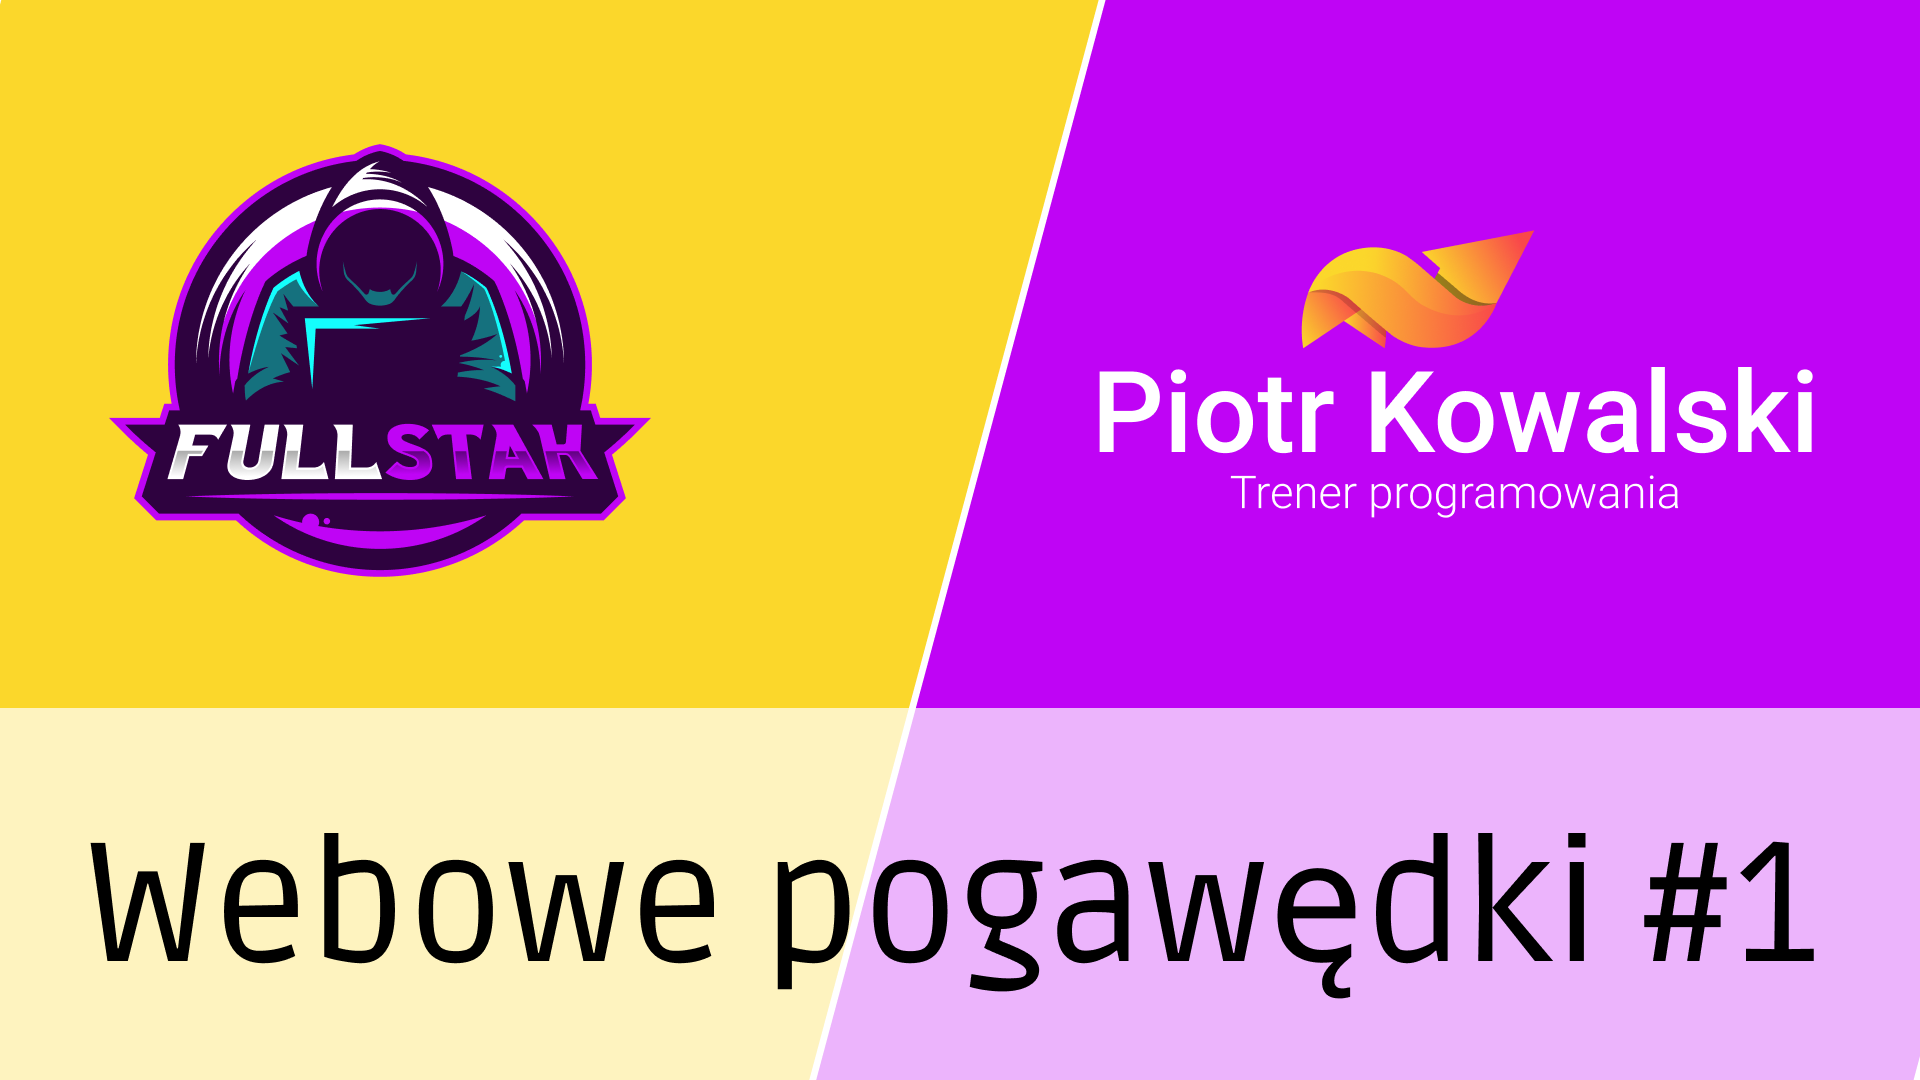
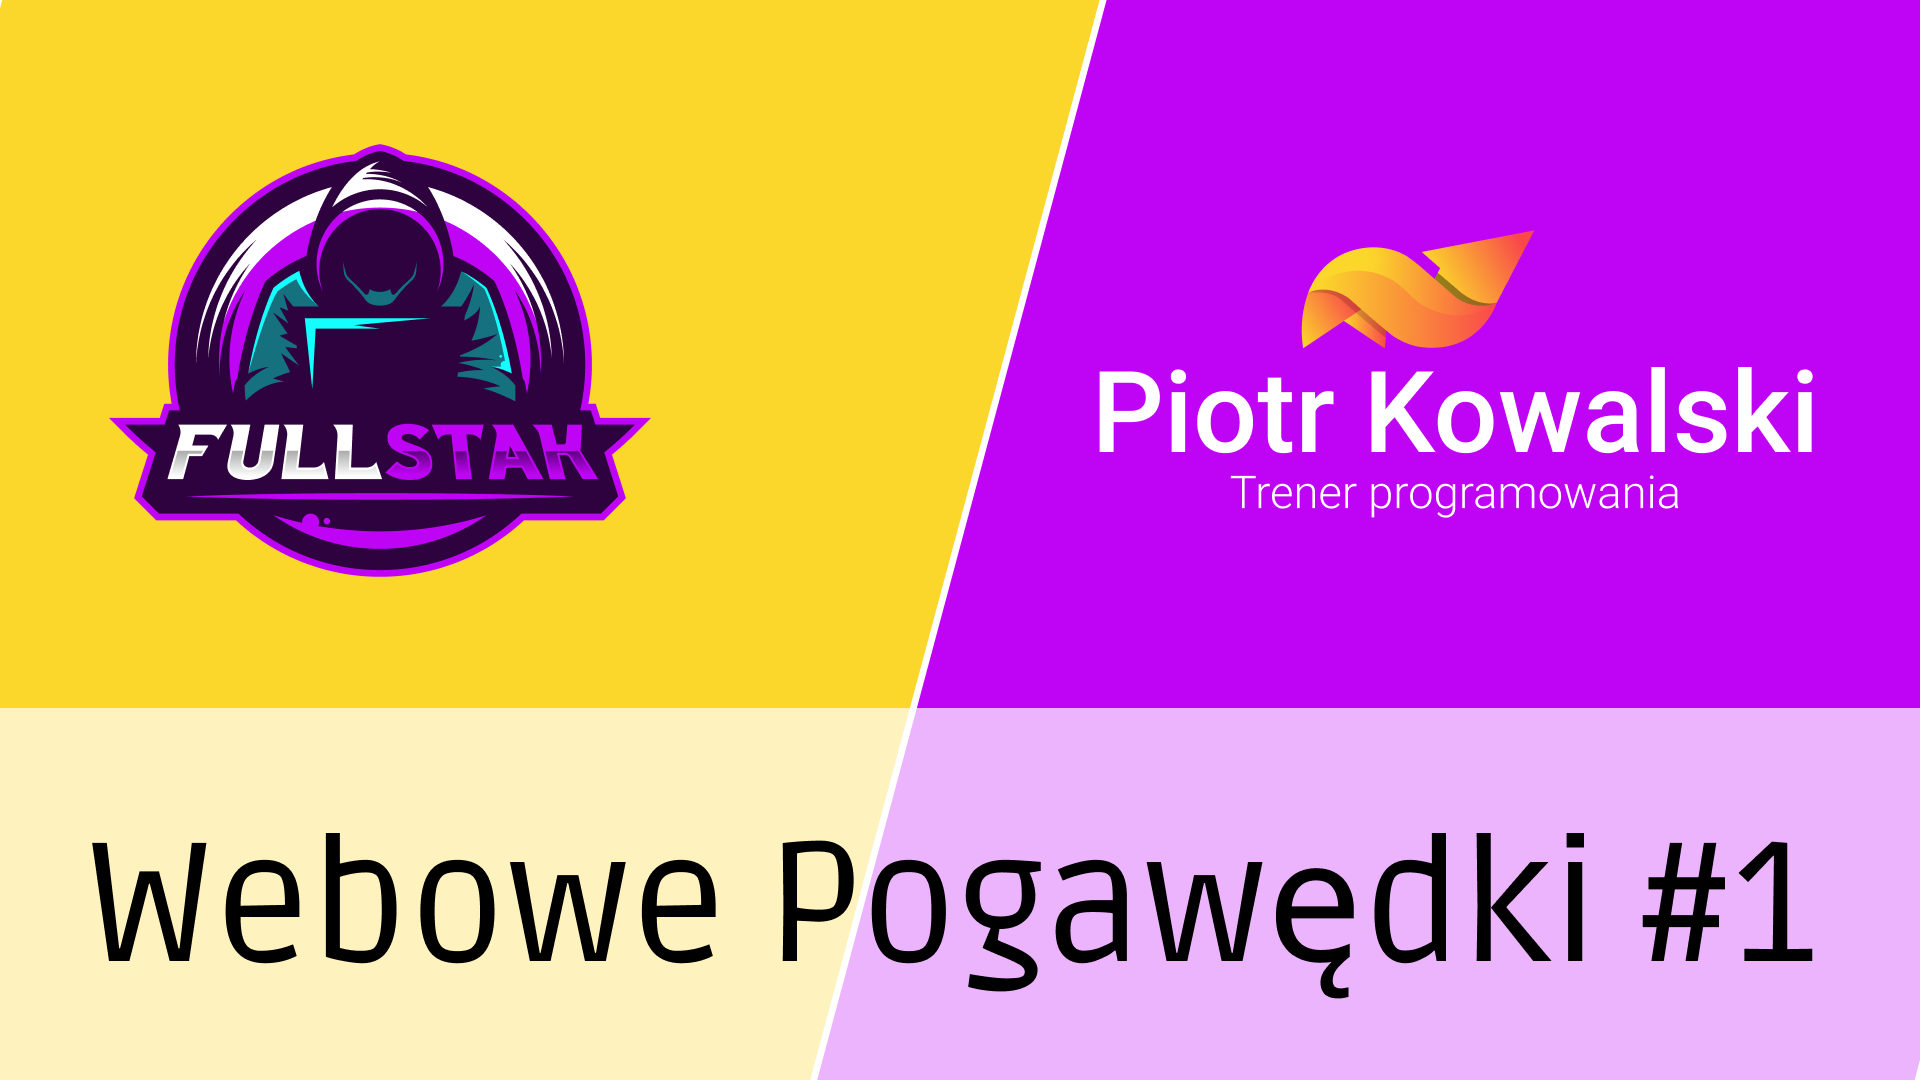
Update project name

diff --git a/README.md b/README.md
@@ -1,8 +1,8 @@
-# Webowe pogawędki
+# Webowe Pogawędki
 
 * #1 — <https://piecioshka.github.io/webowe-pogawedki/1/> — 2020-04-07
 * #2 — <https://piecioshka.github.io/webowe-pogawedki/2/> — 2020-04-16
-* #3 — <https://piecioshka.github.io/webowe-pogawedki/3/>
+* #3 — <https://piecioshka.github.io/webowe-pogawedki/3/> — 2020-04-23
 
 ## License
 
